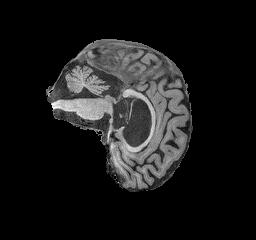
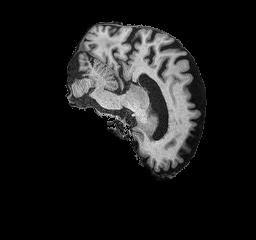
Add GradCam visualisation to the report

Changed region(s): [[0.1562, 0.0875, 0.8125, 0.8167]]

diff --git a/recognition/ConvNeXt-s4934722/predict.py b/recognition/ConvNeXt-s4934722/predict.py
@@ -10,7 +10,6 @@ Description:
 
 import os
 import torch
-import torch.nn as nn
 from PIL import Image
 import argparse
 import matplotlib.pyplot as plt
@@ -21,7 +20,6 @@ from modules import ConvNeXt
 from torchcam.methods import GradCAM
 from torchcam.utils import overlay_mask
 from torchvision.transforms.functional import to_pil_image
-
 
 # Device and constants
 DEVICE = "cuda" if torch.cuda.is_available() else "cpu"
@@ -48,13 +46,13 @@ def load_model(model_path=MODEL_PATH):
 
 
 def predict_image(model, image_path, save_cam=False, cam_extractor=None):
-    '''Run inference on a single image.'''
+    """Run inference on a single image."""
     model.eval()
     img = Image.open(image_path).convert("RGB")
     transform = build_transform(is_train=False)
     img_tensor = transform(img).unsqueeze(0).to(DEVICE)
 
-    if save_cam:
+    if save_cam and cam_extractor is not None:
         with torch.set_grad_enabled(True):
             outputs = model(img_tensor)
             probs = torch.softmax(outputs, dim=1)
@@ -70,7 +68,13 @@ def predict_image(model, image_path, save_cam=False, cam_extractor=None):
             result = overlay_mask(img, cam_img, alpha=0.5)
 
             # Save result
-            cam_path = os.path.splitext(image_path)[0] + "_cam.jpg"
+            # Determine base name (remove any existing _cam suffix)
+            base_name, ext = os.path.splitext(image_path)
+            if base_name.endswith("_cam"):
+                base_name = base_name[:-4]  # remove "_cam"
+            cam_path = base_name + "_cam.jpg"
+
+            # Overwrite existing CAM
             result.save(cam_path)
             print(f"Saved CAM: {cam_path}")
 
@@ -83,13 +87,13 @@ def predict_image(model, image_path, save_cam=False, cam_extractor=None):
     return CLASS_NAMES[pred.item()], conf.item()
 
 
-def predict_folder(model, folder_path):
+def predict_folder(model, folder_path, save_cam=False, cam_extractor=None):
     """Run inference on all images in a folder."""
     print(f"\nRunning inference on folder: {folder_path}\n")
     for fname in os.listdir(folder_path):
         if fname.lower().endswith((".png", ".jpg", ".jpeg", ".bmp")):
             fpath = os.path.join(folder_path, fname)
-            label, conf = predict_image(model, fpath, save_cam=False)  # skip CAM for batch
+            label, conf = predict_image(model, fpath, save_cam=save_cam, cam_extractor=cam_extractor)
             color = GREEN if label == "AD" else RED
             print(f"{fname:<30} -> {color}{label}{RESET} ({conf:.3f})")
 
@@ -98,20 +102,22 @@ def main():
     parser = argparse.ArgumentParser(description="Predict AD/NC using custom ConvNeXt model")
     parser.add_argument("--path", default=IMAGE_PATH, help="Path to image or folder of images")
     parser.add_argument("--model", default=MODEL_PATH, help="Path to trained model (.pth)")
-    parser.add_argument("--cam", action="store_true", help="Generate and save CAM for single image prediction")
+    parser.add_argument("--cam", action="store_true", help="Generate and save GradCAMs for predictions")
     args = parser.parse_args()
 
     model = load_model(args.model)
 
+    # Initialize GradCAM only if requested
+    cam_extractor = GradCAM(model, target_layer=model.stages[-1]) if args.cam else None
+
     if os.path.isfile(args.path):
-        # Initialize GradCAM only for single image
-        cam_extractor = GradCAM(model, target_layer=model.stages[-1]) if args.cam else None
         label, conf = predict_image(model, args.path, save_cam=args.cam, cam_extractor=cam_extractor)
         color = GREEN if label == "AD" else RED
         print(f"\nPrediction: {color}{label}{RESET} (Confidence: {conf:.3f})")
+
     elif os.path.isdir(args.path):
-        # Normal folder inference — no CAM
-        predict_folder(model, args.path)
+        predict_folder(model, args.path, save_cam=args.cam, cam_extractor=cam_extractor)
+
     else:
         print("Invalid path. Please provide a valid image file or folder.")
 

diff --git a/recognition/ConvNeXt-s4934722/README.md b/recognition/ConvNeXt-s4934722/README.md
@@ -175,14 +175,14 @@ Figure 4. Test Set Confusion Matrix
 
 [Table 3](#example-predictions) shows example predictions of the ConvNeXt model on some test images, including the predicted table and corresponding confidence scores for selected AD and NC images.
 
-| Image                                | True Label | Predicted Label | Confidence |
-| ------------------------------------ | ---------- | --------------- | ---------- |
-| ![AD\_1.jpeg](images/ADNI/AD_1.jpeg) | AD         | AD              | 0.913      |
-| ![AD\_2.jpeg](images/ADNI/AD_2.jpeg) | AD         | AD              | 0.755      |
-| ![AD\_3.jpeg](images/ADNI/AD_3.jpeg) | AD         | AD              | 0.798      |
-| ![NC\_1.jpeg](images/ADNI/NC_1.jpeg) | NC         | NC              | 0.954      |
-| ![NC\_2.jpeg](images/ADNI/NC_2.jpeg) | NC         | NC              | 0.955      |
-| ![NC\_3.jpeg](images/ADNI/NC_3.jpeg) | NC         | NC              | 0.955      |
+| Image                                | True Label | Predicted Label | Confidence | GradCam Visualisation                    |
+| ------------------------------------ | ---------- | --------------- | ---------- | ---------------------------------------- |
+| ![AD_1.jpeg](images/ADNI/AD_1.jpeg)  | AD         | AD              | 0.943      | ![AD_1_cam.jpeg](images/ADNI/AD_1_cam.jpg)
+| ![AD_2.jpeg](images/ADNI/AD_2.jpeg)  | AD         | AD              | 0.755      | ![AD_2_cam.jpeg](images/ADNI/AD_2_cam.jpg)
+| ![AD_3.jpeg](images/ADNI/AD_3.jpeg)  | AD         | AD              | 0.942      | ![AD_3_cam.jpeg](images/ADNI/AD_3_cam.jpg)
+| ![NC_1.jpeg](images/ADNI/NC_1.jpeg)  | NC         | NC              | 0.954      | ![NC_1_cam.jpeg](images/ADNI/NC_1_cam.jpg)
+| ![NC_2.jpeg](images/ADNI/NC_2.jpeg)  | NC         | NC              | 0.955      | ![NC_2_cam.jpeg](images/ADNI/NC_2_cam.jpg)
+| ![NC_3.jpeg](images/ADNI/NC_3.jpeg)  | NC         | NC              | 0.955      | ![NC_3_cam.jpeg](images/ADNI/NC_3_cam.jpg)
 
 Table 3. Example test set predictions of the ConvNeXt model with corresponding confidence scores.
 
@@ -273,21 +273,22 @@ Once the model is trained, you can run inference on MRI images.
 To predict a single image:
 
 ```bash
-python predict.py [--path path/to/image.jpeg] [--model path/to/model.pth]
+python predict.py [--path path/to/image.jpeg] [--model path/to/model.pth] [--cam]
 ```
 
 Multiple images can also be processed from a folder:
 
 ```bash
-python predict.py [--path path/to/folder] [--model path/to/model.pth]
+python predict.py [--path path/to/folder] [--model path/to/model.pth] [--cam]
 ```
+
+If `--cam` is included, the script generates and saves GradCam visualisations overlayed on the original MRi images.
 
 If no arguments are provided, the script defaults to:
 
-```bash
---path=./images/ADNI
---model=./best_convnext.pth
-```
+`--path=./images/ADNI`
+
+`--model=./best_convnext.pth`
 
 Example output:
 
@@ -297,16 +298,18 @@ Model loaded successfully.
 
 Running inference on folder: ./images/ADNI
 
-AD_1.jpeg                      -> AD (0.913)
+Saved CAM: ./images/ADNI\AD_1_cam.jpg
+AD_1.jpeg                      -> AD (0.943)
+Saved CAM: ./images/ADNI\AD_2_cam.jpg
 AD_2.jpeg                      -> AD (0.755)
-AD_3.jpeg                      -> AD (0.798)
-AD_4.jpeg                      -> AD (0.594)
-AD_5.jpeg                      -> AD (0.580)
+Saved CAM: ./images/ADNI\AD_3_cam.jpg
+AD_3.jpeg                      -> AD (0.942)
+Saved CAM: ./images/ADNI\NC_1_cam.jpg
 NC_1.jpeg                      -> NC (0.954)
+Saved CAM: ./images/ADNI\NC_2_cam.jpg
 NC_2.jpeg                      -> NC (0.955)
+Saved CAM: ./images/ADNI\NC_3_cam.jpg
 NC_3.jpeg                      -> NC (0.955)
-NC_4.jpeg                      -> NC (0.946)
-NC_5.jpeg                      -> NC (0.954)
 ```
 
 ## References
